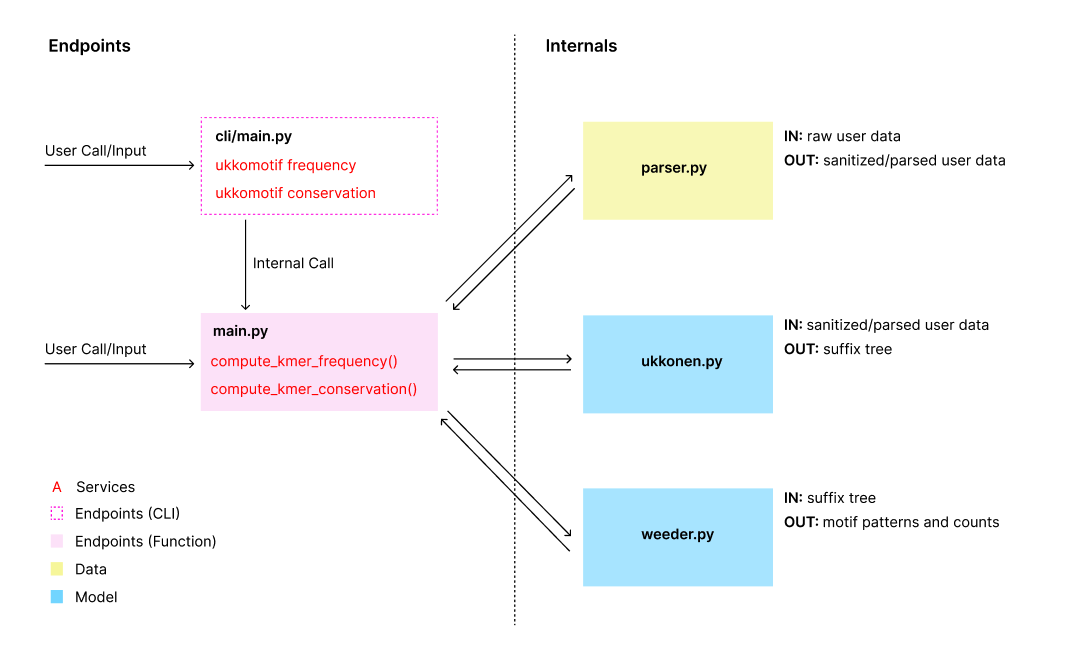
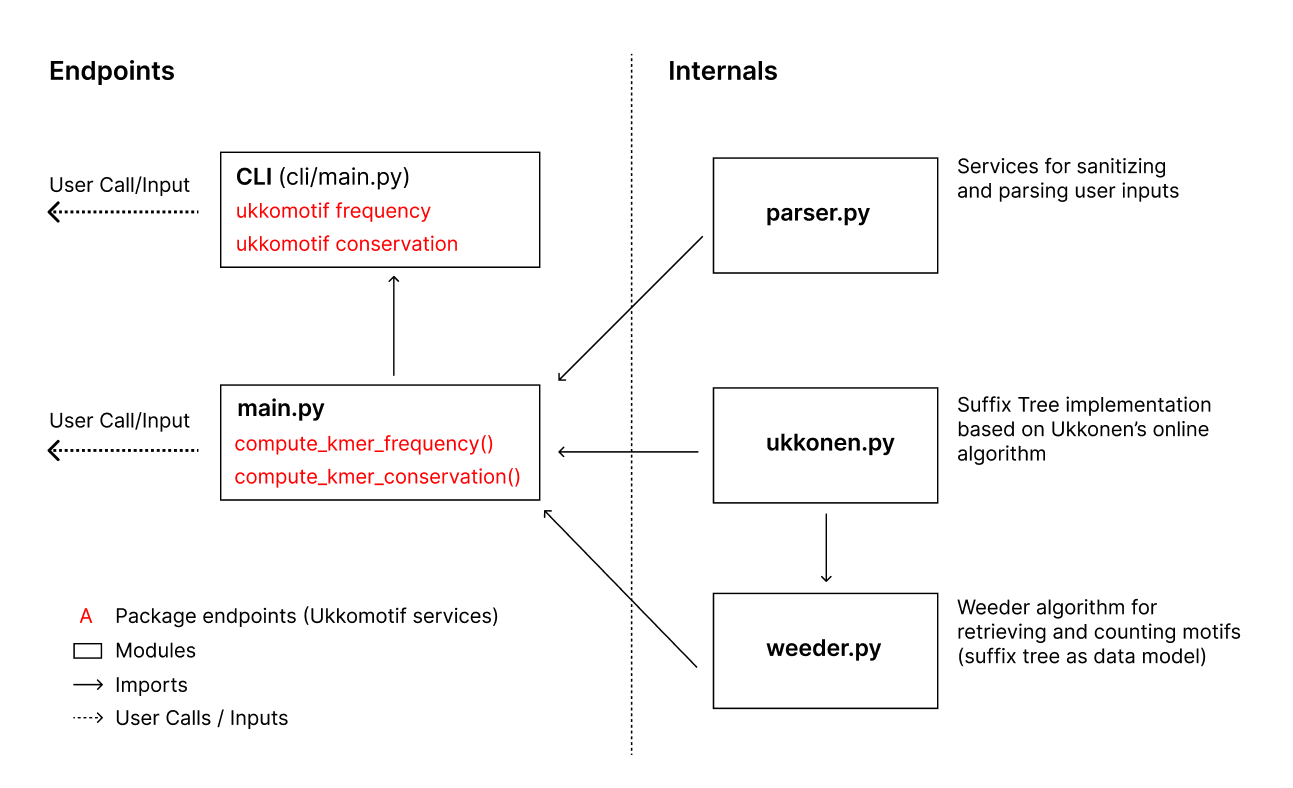
added command line listing functionality and updated readme

diff --git a/ukkomotif/cli/main.py b/ukkomotif/cli/main.py
@@ -5,9 +5,11 @@ from itertools import islice
 
 from ..main import compute_kmer_frequencies, compute_kmer_conservations
 
-def _format_dict_to_text(input_dict: dict) -> str:
+def _format_dict_to_text(input_dict: dict, n_list: int=10) -> str:
     formatted_text = ""
-    for item in islice(input_dict.items(), 10):
+    if n_list > len(input_dict.items()):
+        n_list = len(input_dict.items())
+    for item in islice(input_dict.items(), n_list):
         formatted_text += f"{item[0]} {item[1]}\n"
     return formatted_text[:-1]
 
@@ -15,38 +17,45 @@ def _format_dict_to_text(input_dict: dict) -> str:
 def main():
     """Command line toolchain for ukkomotif.
     
-    Visit https://github.com/bpenteado/ukkonen-motif to learn more.
+    Visit https://github.com/bpenteado/ukkomotif to learn more.
     """
 
-@click.command("frequency")
-@click.argument("sequence_data", nargs=1)
-@click.argument("is_file", type = click.INT, nargs=1)
-@click.argument("kmer_length", type = click.INT, nargs=1)
-def frequency(sequence_data: str, is_file: int, kmer_length: int):
-    """Retrieves all motifs of a specified length from a DNA sequence and computes their frequencies."""
+@click.command("frequency", context_settings={'show_default': True})
+@click.argument("sequence_data", metavar="SEQUENCE")
+@click.argument("is_file", metavar="ISFILE", type=click.INT)
+@click.argument("kmer_length", metavar="KLENGTH", type=click.INT)
+@click.option("--list", "n_kmers", default=10, type=int, help="Number of kmers to return")
+def frequency(sequence_data: str, is_file: int, kmer_length: int, n_kmers: int):
+    """Retrieves all motifs of a specified length from a DNA sequence and computes their frequencies.
+    
+    Visit https://github.com/bpenteado/ukkomotif to learn more.
+    """
     try:
         kmer_frequencies = compute_kmer_frequencies(sequence_data, bool(is_file), kmer_length)
     except Exception as e:  # pragma: no cover, general exception handling
         click.secho(f"Unable to compute motif frequencies: {str(e)}", fg="red")
         return
-    return_string = _format_dict_to_text(kmer_frequencies)
+    return_string = _format_dict_to_text(kmer_frequencies, n_kmers)
     click.secho(return_string)
 
-@click.command("conservation")
-@click.argument("sequence_data", nargs=1)
-@click.argument("conservation_data", nargs=1)
-@click.argument("is_file", type=click.INT, nargs=1)
-@click.argument("kmer_length", type=click.INT, nargs=1)
-def conservation(sequence_data: str, conservation_data: str, is_file: int, kmer_length: int):
+@click.command("conservation", context_settings={'show_default': True})
+@click.argument("sequence_data", metavar="SEQUENCE")
+@click.argument("conservation_data", metavar="CONSERVATION")
+@click.argument("is_file", metavar="ISFILE", type=click.INT)
+@click.argument("kmer_length", metavar="KLENGTH", type=click.INT)
+@click.option("--list", "n_kmers", default=10, type=int)
+def conservation(sequence_data: str, conservation_data: str, is_file: int, kmer_length: int, n_kmers: int):
     """Based on conservation sequence, retrieves conserved motifs of a specified length from a DNA sequence and computes 
     their conservation. Conservation is defined as motif conservation frequency divided by total motif frequency.
+    
+    Visit https://github.com/bpenteado/ukkomotif to learn more.
     """
     try: 
         kmer_conservations = compute_kmer_conservations(sequence_data, conservation_data, bool(is_file), kmer_length)
     except Exception as e:  # pragma: no cover, general exception handling
         click.secho(f"Unable to compute motif conservations: {str(e)}", fg="red")
         return
-    return_string = _format_dict_to_text(kmer_conservations)
+    return_string = _format_dict_to_text(kmer_conservations, n_kmers)
     click.secho(return_string)
 
 main.add_command(frequency)

diff --git a/README.md b/README.md
@@ -2,33 +2,33 @@
 
 ![build](https://github.com/bpenteado/ukkomotif/actions/workflows/build.yml/badge.svg) [![coverage](https://codecov.io/gh/bpenteado/ukkomotif/branch/main/graph/badge.svg?token=IEAQUAHQ68)](https://codecov.io/gh/bpenteado/ukkomotif)
 
-:dna: Genomic motif discovery based on Ukkonen's suffix tree implementation and .
+:dna: Genomic motif discovery based on Ukkonen's suffix tree implementation and the Weeder algorithm.
 
 ## Why Ukkomotif
 
-Ukkomotif is a modular toolchain for motif discovery in genomic sequences. It allows users to compute the frequency and 
-conservation of kmers (motifs) of any length by providing genomic sequences together with their conservation signatures.
+Ukkomotif is a modular toolchain for motif discovery in genomic sequences. It allows users to compute the frequency and conservation of kmers (motifs) of any length by providing genomic sequences together with their conservation signatures.
 
-Motifs that are evolutionarily conserved, especially those in intergenic regions of the genome, are high-potential 
-candidate sites for gene expression regulation.
+Motifs that are evolutionarily conserved, especially those in intergenic regions of the genome, are high-potential candidate sites for gene expression regulation.
 
-Functionality is provided through a CLI and modular services (see "Core Components"). 
+Functionality is provided through CLI and functional endpoints (see "Core Components"). 
 
 Ukkomotif also provides standalone services for the implementation and manipulation of suffix trees built with Ukkonen's algorithm.
 
 
-## Core Components
+## Core Package Components
 
 ![components](static/components.png)
 
 Ukkomotif is composed of 5 main components:
-- *cli/main.py*: defines command line endpoints.
-- *main.py*: defines functional endpoints.
-    * computer_kmer_frequency(): given a DNA sequence and a specified motif length, retrieves all motifs and their frequencies.
-    * compute_kmer_conservation(): given a DNA sequence, a conservation sequence, and a specified motif length, retrieves all conserved motifs and their conservation. Conservation is defined as motif conservation frequency divided by total motif frequency.
-- *parser.py*: verifies and sanitizes raw user data.
-- *ukkonen.py*: builds a suffix tree based on Ukkonen's implementation.
-- *weeder.py*: given a suffix tree and a substring length, implements the Weeder algorithm (finds all substrings of the specific length and computes their frequency).
+- **main.py**: defines functional endpoints.
+    * **computer_kmer_frequency()**: given a DNA sequence and a specified motif length, retrieves all motifs and their frequencies.
+    * **compute_kmer_conservation()**: given a DNA sequence, a conservation sequence, and a specified motif length, retrieves all conserved motifs and their conservation. Conservation is defined as motif conservation frequency divided by total motif frequency.
+- **cli/main.py**: defines command line endpoints.
+    * **ukkomotif frequency**: CLI endpoint for compute_kmer_frequency()
+    * **ukkomotif conservation**: CLI endpoint for compute_kmer_conservation()
+- **parser.py**: verifies and sanitizes raw user data.
+- **ukkonen.py**: suffix tree implementation based on Ukkonen's online algorithm.
+- **weeder.py**: Wedder algorithm implementation. Given a suffix tree and a substring length, finds all substrings of the specific length and computes their frequency.
 
 ## Getting Started
 
@@ -37,7 +37,7 @@ To begin, simply:
 python3 -m pip install ukkomotif
 ```
 
-## Inputs
+## Data Inputs
 
 Users need to provide a `dna_sequence` and a `conservation_sequence`.
 - `dna_sequence`: single string with genomic sequences separated by "#". 
@@ -47,24 +47,45 @@ Users need to provide a `dna_sequence` and a `conservation_sequence`.
 - `dna_sequence` and `conservation_sequence` need to be aligned and of same length.
 - Ukkomotif verifies inputs and raises errors in case of badly formatted inputs.
 
-## Examples
+## Usage
 
-When using the CLI:
+When calculating motif frequencies using the CLI, where PATH is a path to the DNA file:
+```console
+$ ukkomotif frequency "AAATGGCCGCGCCG--#AAA---TGGC----CGCGCCG#GGCTGTTGAGCGCGCGG-GA#" 0 3 --list 5
+CGC 6
+GCG 5
+GCC 4
+CCG 4
+GGC 3
+$ ukkomotif frequency PATH 1 4 --list 3
+AAAA 70931
+TTTT 69711
+ATAT 42771
 ```
-ukkomotif frequency "AAATGGCCGCGCCG--#AAA---TGGC----CGCGCCG#GGCTGTTGAGCGCGCGG-GA#" False 3
-ukkomotif frequency path_to_file True 3
 
-ukkomotif conservation "ATCG--#AAAT#" "   ***#  **#" False 2
-ukkomotif conservation path_to_file True 2
+When calculating motif conservations using the CLI, where `PATH1` is a path to the DNA file and `PATH2` is a path to the conservation file:
+```console
+$ ukkomotif conservation "ATCG--#AAAT#" " ** **# ***#" 0 2 --list 3
+TACCCG 0.
+AA 0.5
+AT 0.5
+$ ukkomotif conservation PATH1 PATH2 1 6 --list 5
+TACCCG 0.4327731092436975
+CGGGTA 0.43243243243243246
+CCGGGT 0.38524590163934425
+ACCCGG 0.36860068259385664
+CACGTG 0.3489010989010989
 ```
 
-When using function endpoints:
-```
+When calculating motif frequencies and conservations using the functional endpoints:
+```python
+# using raw data
 sample_sequence_data = "AAATGGCCGCGCCG--#AAA---TGGC----CGCGCCG#GGCTGTTGAGCGCGCGG-GA#"
 sample_conservation_data = "***  *    ** ***#***            ***   #*    ***            #"
 kmer_frequencies = compute_kmer_frequency(sample_sequence_data, False, 3)
 kmer_conservations = compute_kmer_conservation(sample_sequence_data, sample_conservation_data, False, 3)
 
+# using data in files
 path_sequence_file = "tests/allinter"
 path_conservation_file = "tests/allintercons"
 kmer_frequencies = compute_kmer_frequency(path_sequence_file, True, 3)
